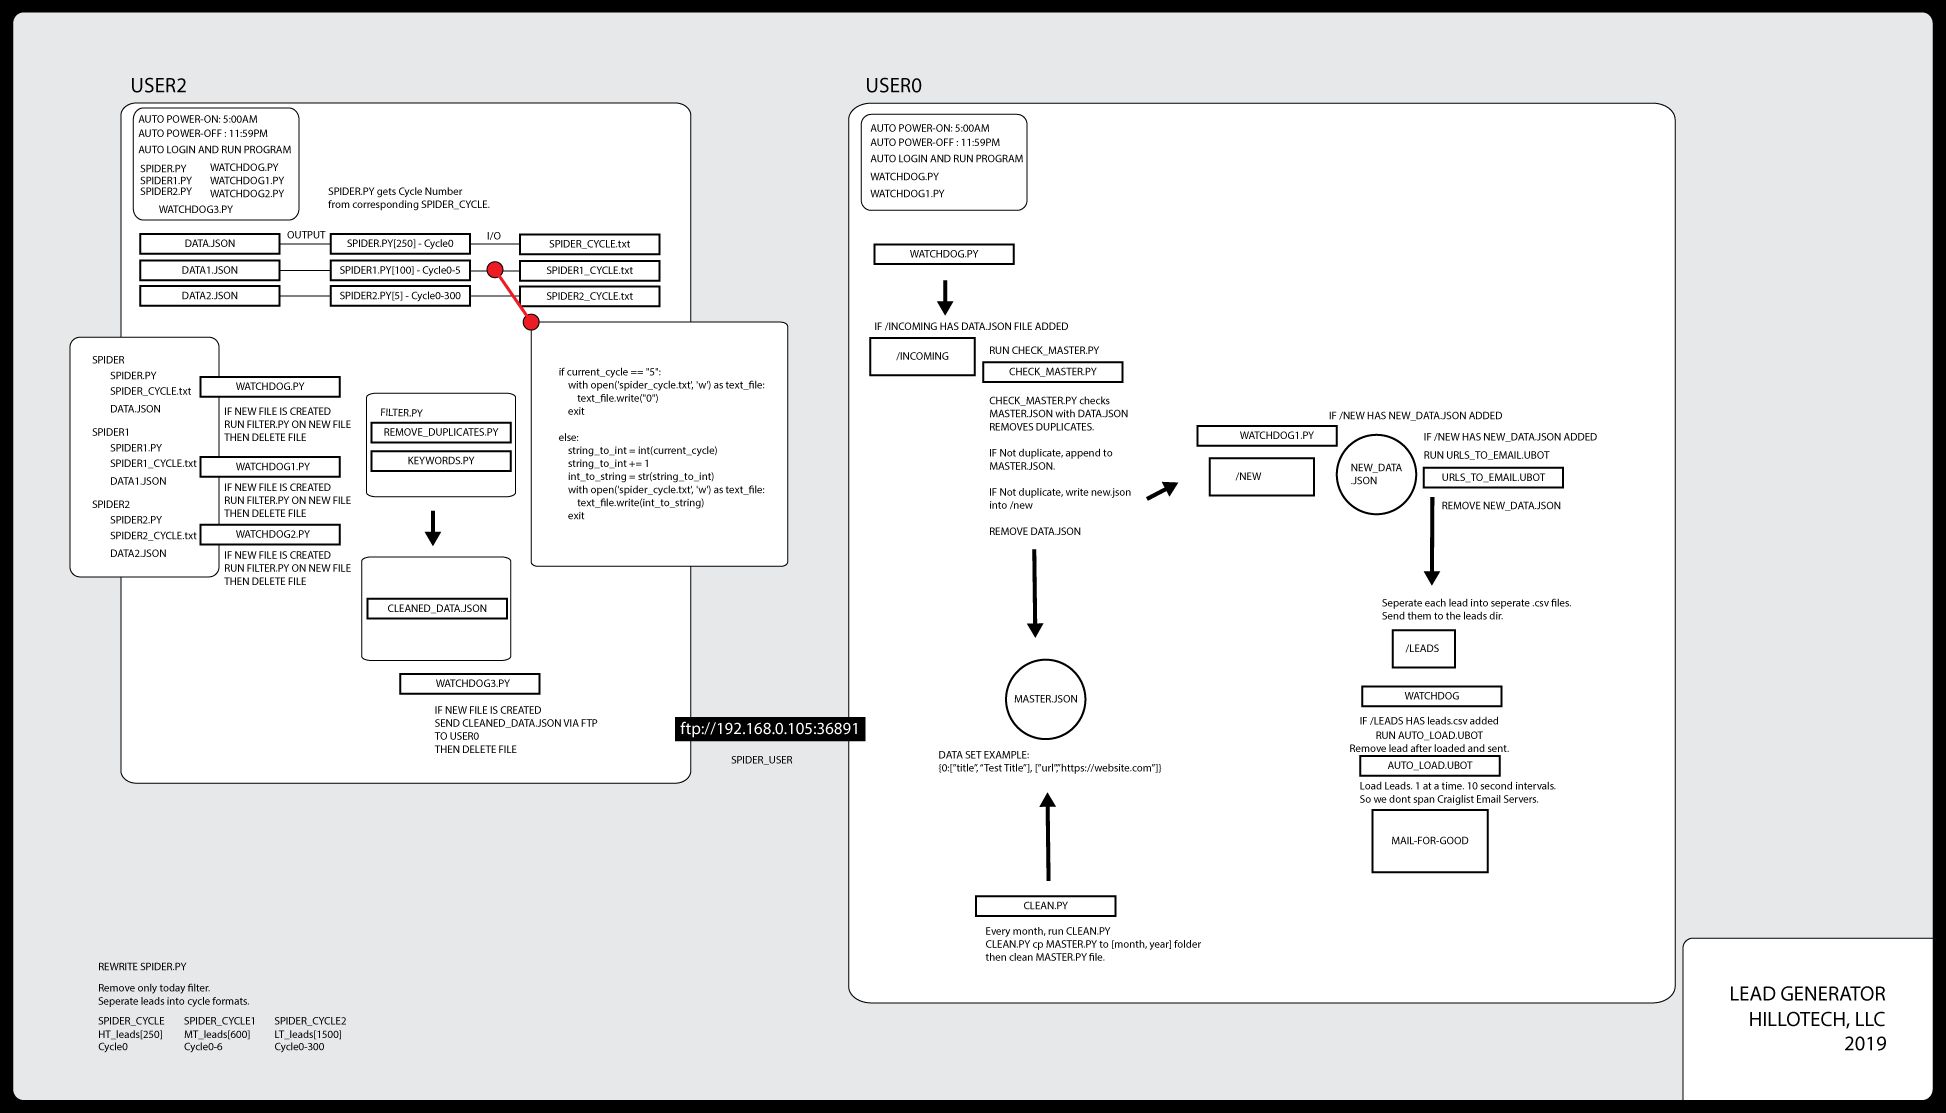
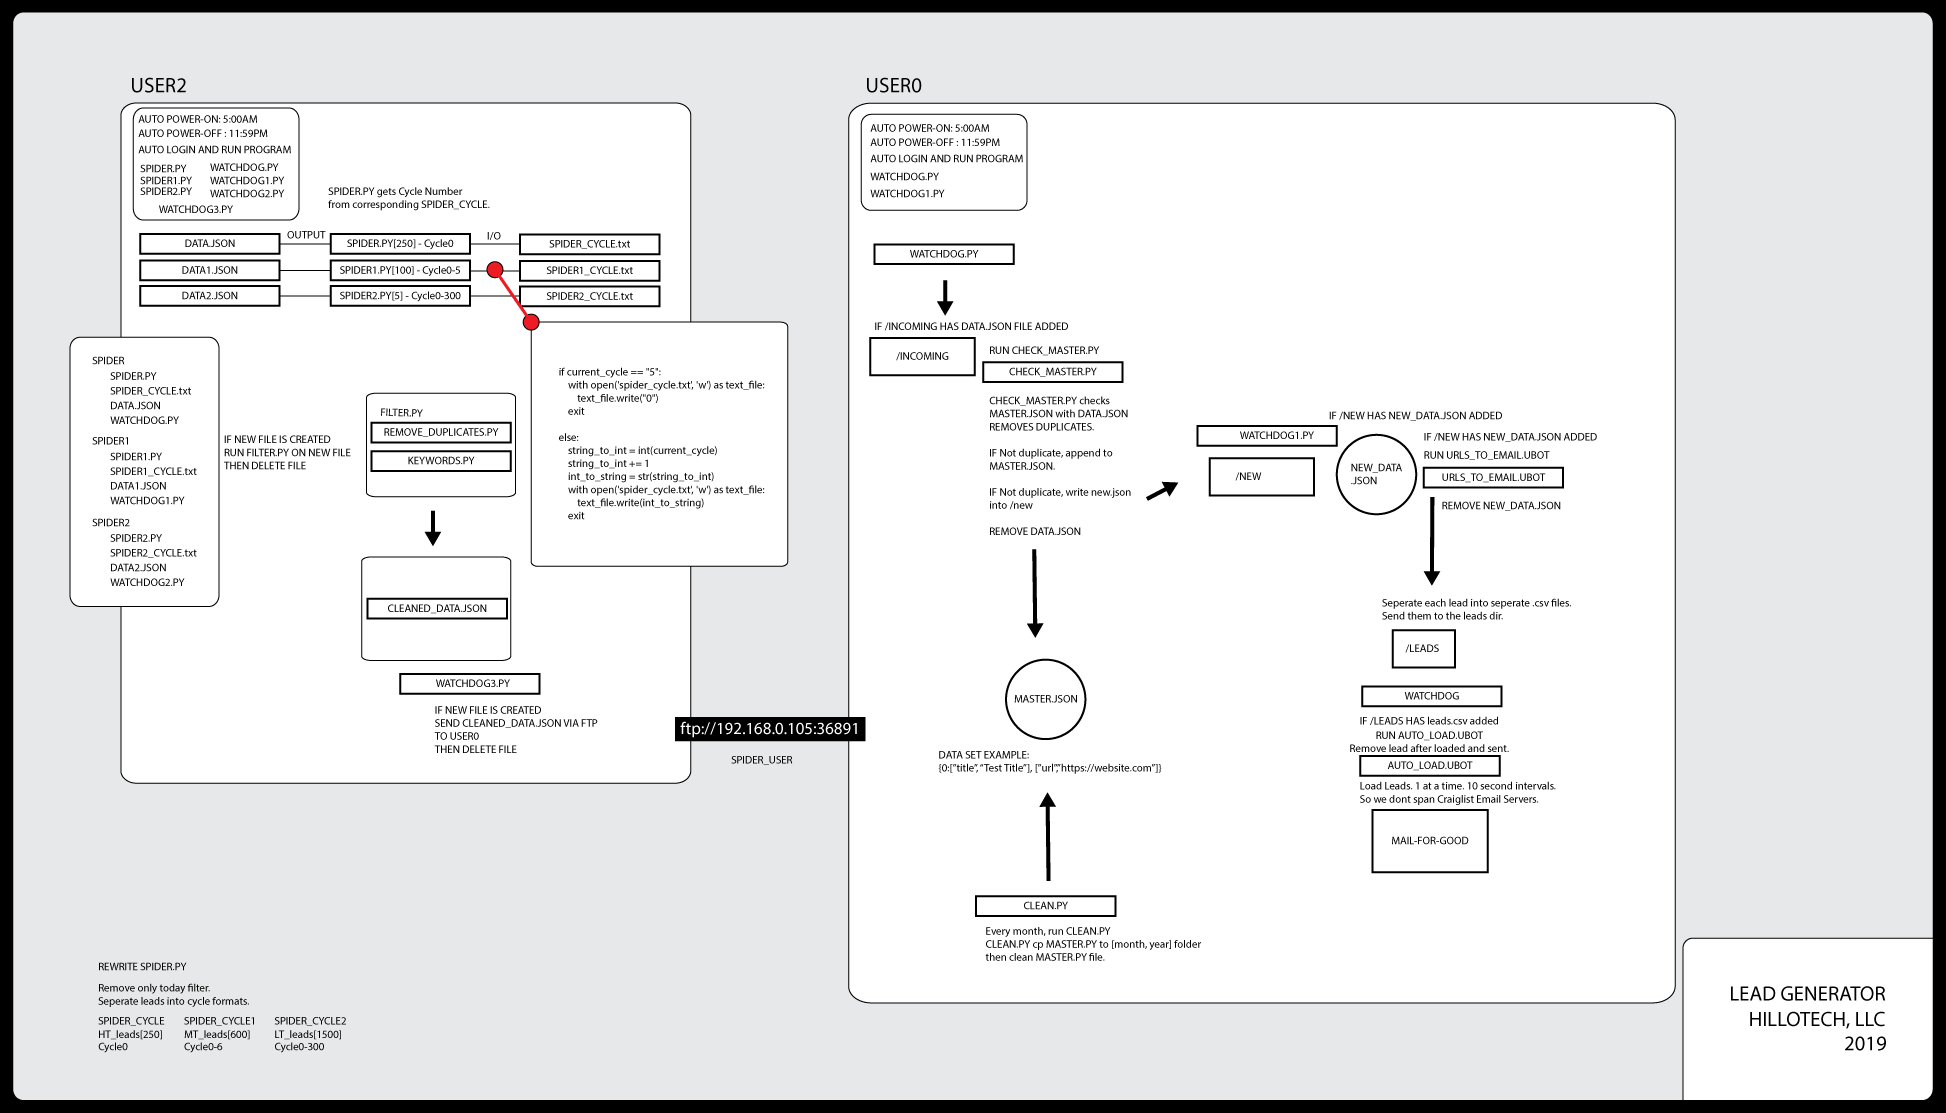
updated watchdog functionality

Changed region(s): [[0.0308, 0.336, 0.185, 0.5499]]

diff --git a/lead_generator/filter/clean_leads.py b/lead_generator/filter/clean_leads.py
@@ -1,0 +1,46 @@
+# encoding=utf8
+
+import json
+import time
+
+# keywords are not cap sensitive. lower case w in "web" will also look for upper case "Web" and vice versa.
+keywords = ["web", "Cloud", "Desktop","Mobile","Tablet","Server","Router","Switch","Embedded","Software","Hardware","Engineer","Architect","Scientist","Programmer","Developer","Branding","Graphics","UI","UX","Designer","IoT","Wearable","Technologies","Technologies","Scalable",
+"Databases", "Data","Datacenter","computing","Networking","Innovation","Creativity","Social","Media","SEO","ASO","SEM","SMM","Object-Oriented","Procedural","Functional","Programming", "design", "designer", "website", "portfolio", "logo", "poster", "flyer", "ecommerce",
+]
+
+leads_with_keywords = {}
+current_lead_number = 0
+current_url_number = 0
+
+
+with open("lead.json", 'r') as json_file:
+    data = json.load(json_file)
+    total_number_of_items_in_data = len(data)
+    #print total_number_of_items_in_data
+    #print data
+    for x in range(0, total_number_of_items_in_data):
+        turn_into_string = str(current_lead_number)
+        lead = (data[turn_into_string])
+        #print lead
+        title = lead[0]
+        #print title
+        text_in_title = title["title"]
+
+        for keyword in keywords:
+            if keyword in text_in_title:
+                lead = (data[turn_into_string])
+                #print lead
+                url = lead[1]
+                #print url
+                this_url = url["url"]
+                #print this_url
+                leads_with_keywords[current_url_number] = []
+
+                leads_with_keywords[current_url_number].append({'url':this_url})
+                current_url_number+=1
+                break
+
+        current_lead_number+=1
+with open('out_leads.json', 'w') as outfile:  
+    json.dump(leads_with_keywords, outfile)
+exit

diff --git a/lead_generator/spider/test_leads/run_watchdog.py b/lead_generator/spider/test_leads/run_watchdog.py
@@ -1,0 +1,46 @@
+#!/usr/bin/env python
+# -*- coding: utf-8 -*-
+
+import os
+import logging
+import sys
+import time
+import subprocess
+
+
+from watchdog.events import FileSystemEventHandler
+from watchdog.observers import Observer
+
+logging.basicConfig(level=logging.ERROR)
+
+class MyEventHandler(FileSystemEventHandler):
+    def __init__(self, observer, filename):
+        self.observer = observer
+        self.filename = filename
+
+    def on_created(self, event):
+        #print "e=", event
+        if not event.is_directory and event.src_path.endswith(self.filename):
+            print "file created"
+            self.observer.stop()
+
+        #cwd = os.getcwd()  # Get the current working directory (cwd)
+        #files = os.listdir(cwd)  # Get all the files in that directory
+        #print("Files in '%s': %s" % (cwd, files))
+
+        os.system('python ../../filter/clean_leads.py')
+
+        
+
+def main(argv=None):
+    path = "."
+    filename = "test"
+    observer = Observer()
+    event_handler = MyEventHandler(observer, filename)
+    observer.schedule(event_handler, path, recursive=False)
+    observer.start()
+    observer.join()
+    return 0
+
+if __name__ == "__main__":
+    sys.exit(main(sys.argv))

diff --git a/lead_generator/spider1/test_leads/run_watchdog.py b/lead_generator/spider1/test_leads/run_watchdog.py
@@ -1,0 +1,46 @@
+#!/usr/bin/env python
+# -*- coding: utf-8 -*-
+
+import os
+import logging
+import sys
+import time
+import subprocess
+
+
+from watchdog.events import FileSystemEventHandler
+from watchdog.observers import Observer
+
+logging.basicConfig(level=logging.ERROR)
+
+class MyEventHandler(FileSystemEventHandler):
+    def __init__(self, observer, filename):
+        self.observer = observer
+        self.filename = filename
+
+    def on_created(self, event):
+        #print "e=", event
+        if not event.is_directory and event.src_path.endswith(self.filename):
+            print "file created"
+            self.observer.stop()
+
+        #cwd = os.getcwd()  # Get the current working directory (cwd)
+        #files = os.listdir(cwd)  # Get all the files in that directory
+        #print("Files in '%s': %s" % (cwd, files))
+
+        os.system('python ../../filter/clean_leads.py')
+
+        
+
+def main(argv=None):
+    path = "."
+    filename = "test"
+    observer = Observer()
+    event_handler = MyEventHandler(observer, filename)
+    observer.schedule(event_handler, path, recursive=False)
+    observer.start()
+    observer.join()
+    return 0
+
+if __name__ == "__main__":
+    sys.exit(main(sys.argv))

diff --git a/lead_generator/spider2/test_leads/run_watchdog.py b/lead_generator/spider2/test_leads/run_watchdog.py
@@ -1,0 +1,46 @@
+#!/usr/bin/env python
+# -*- coding: utf-8 -*-
+
+import os
+import logging
+import sys
+import time
+import subprocess
+
+
+from watchdog.events import FileSystemEventHandler
+from watchdog.observers import Observer
+
+logging.basicConfig(level=logging.ERROR)
+
+class MyEventHandler(FileSystemEventHandler):
+    def __init__(self, observer, filename):
+        self.observer = observer
+        self.filename = filename
+
+    def on_created(self, event):
+        #print "e=", event
+        if not event.is_directory and event.src_path.endswith(self.filename):
+            print "file created"
+            self.observer.stop()
+
+        #cwd = os.getcwd()  # Get the current working directory (cwd)
+        #files = os.listdir(cwd)  # Get all the files in that directory
+        #print("Files in '%s': %s" % (cwd, files))
+
+        os.system('python ../../filter/clean_leads.py')
+
+        
+
+def main(argv=None):
+    path = "."
+    filename = "test"
+    observer = Observer()
+    event_handler = MyEventHandler(observer, filename)
+    observer.schedule(event_handler, path, recursive=False)
+    observer.start()
+    observer.join()
+    return 0
+
+if __name__ == "__main__":
+    sys.exit(main(sys.argv))

diff --git a/lead_generator/spider/spider.py b/lead_generator/spider/spider.py
@@ -13,16 +13,10 @@ from bs4 import BeautifulSoup as soup
 
 import time
 
-# get current time function
-ts = time.time()
-
-
 # from ghost import Ghost
 
 import random
 
-import datetime
-st = datetime.datetime.fromtimestamp(ts).strftime('%Y-%m-%d %H:%M:%S')
 
 # ghost = Ghost()  
 
@@ -170,7 +164,7 @@ while True:
     # print "Total output =", i, ""
     # print ('The script took {0} second !'.format(time.time() - startTime))
 
-    with open("test_leads/" + st + 'leads' + current_cycle + ".json", 'w') as outfile:  
+    with open("test_leads/lead.json", 'w') as outfile:  
         json.dump(leads, outfile)
     exit
 

diff --git a/lead_generator/filter/pass.py b/lead_generator/filter/pass.py
@@ -1,0 +1,4 @@
+import os
+import sys
+
+print "pass test"
